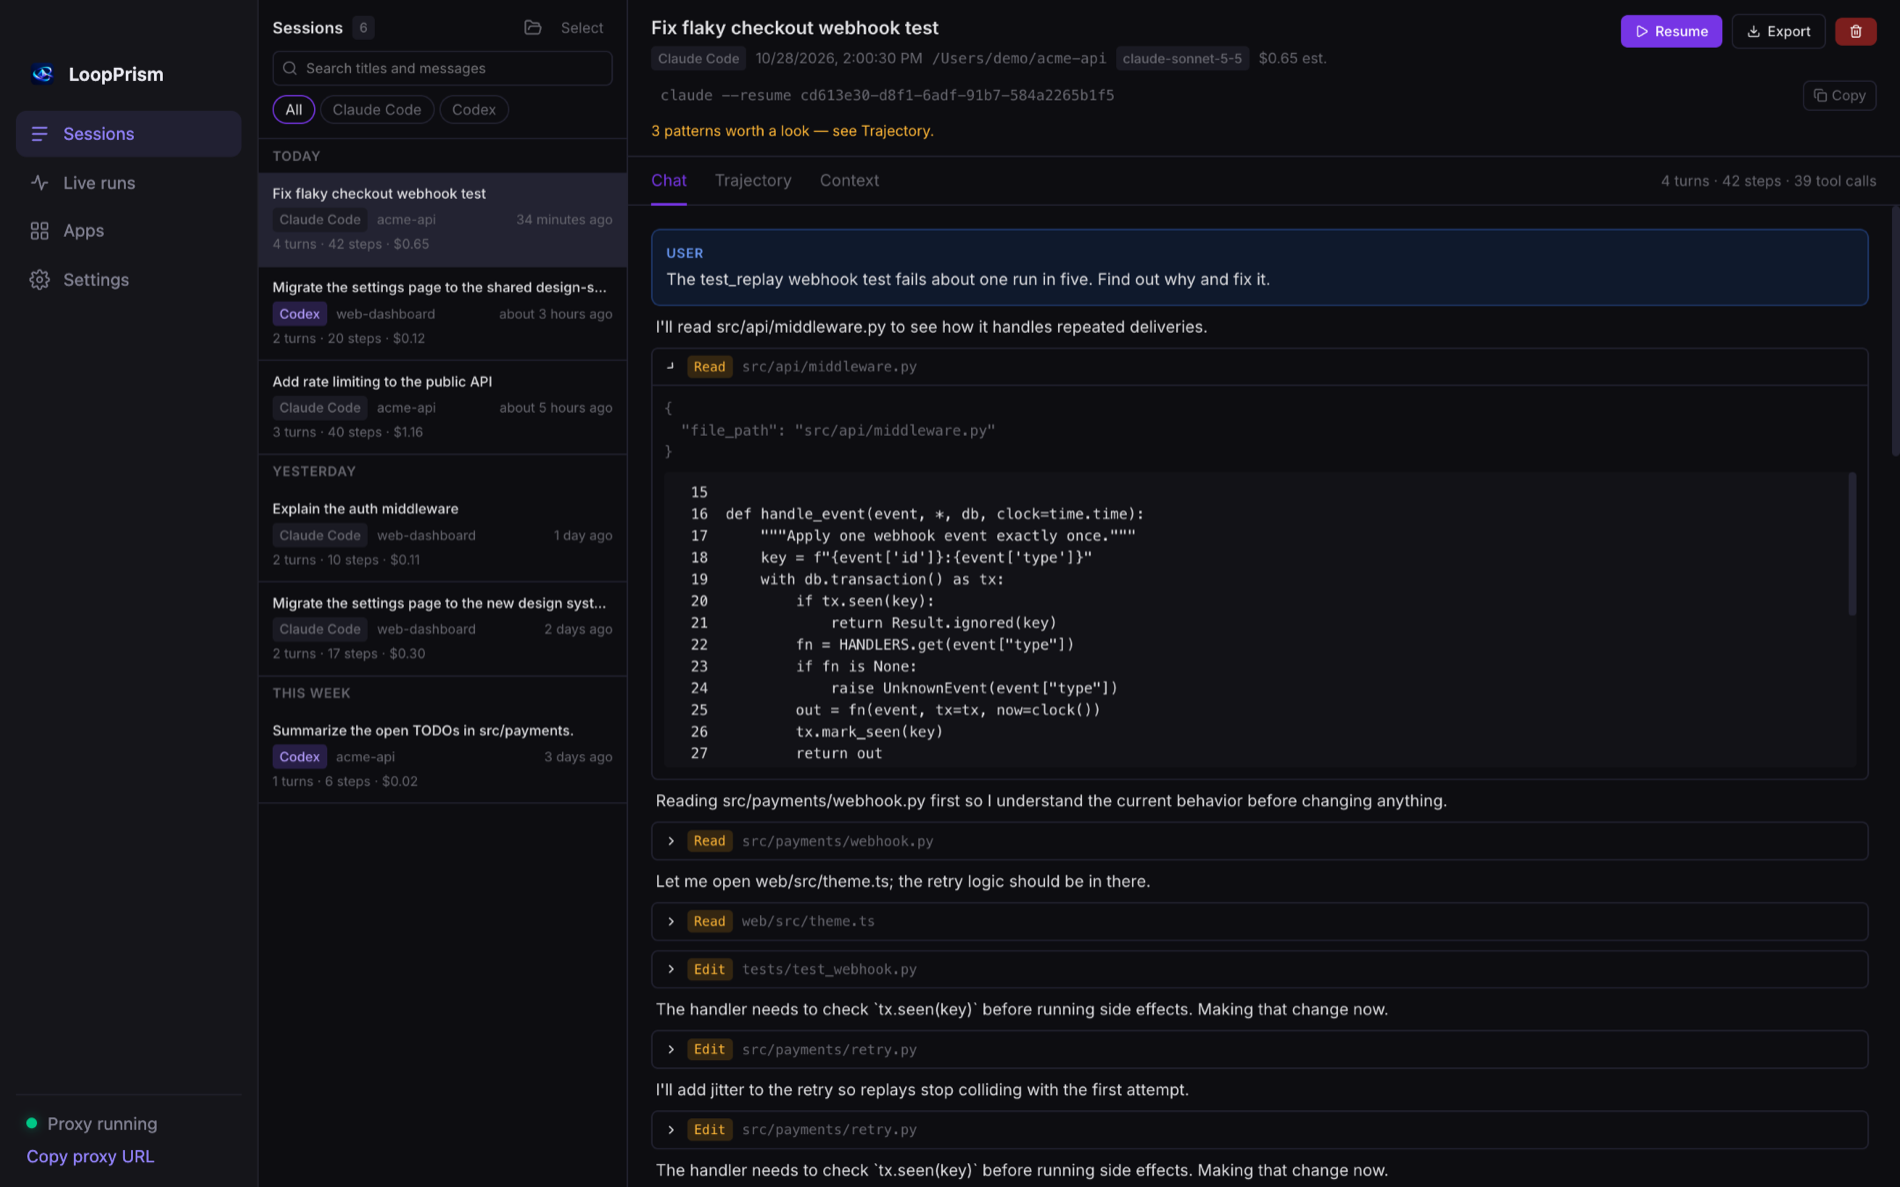
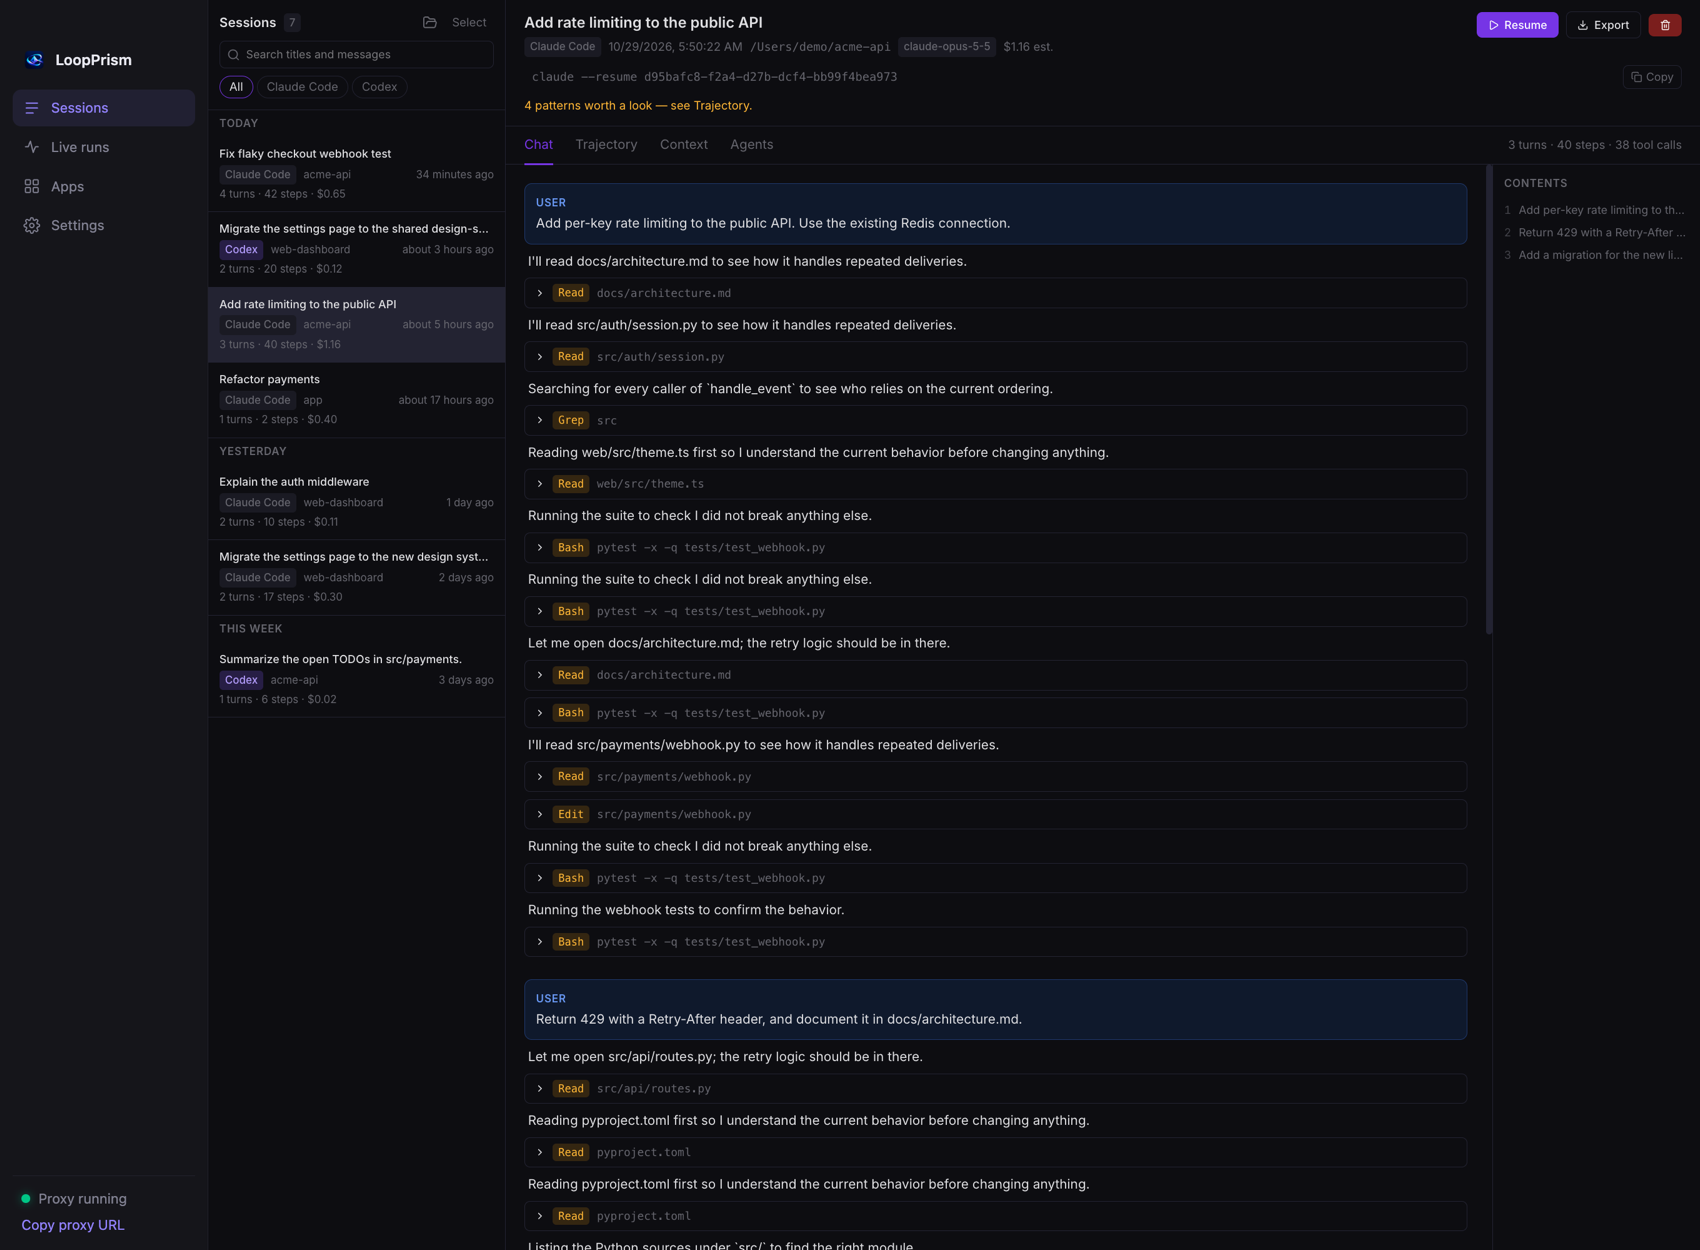
docs: README shows Chat, Trajectory, Context and Agents; drop closer look, how it works and more; add star history

diff --git a/tests/support_agents.py b/tests/support_agents.py
@@ -19,7 +19,13 @@ MODEL = "claude-sonnet-5-5"
 PROJECT = "-work-app"
 
 
+# LP_DEMO_SCALE multiplies every token count, so a demo (README screenshots) shows realistic
+# costs instead of "<$0.01". Tests leave it at 1.
+SCALE = int(os.environ.get("LP_DEMO_SCALE", "1"))
+
+
 def u(inp=100, out=40, read=2000):
+    inp, out, read = inp * SCALE, out * SCALE, read * SCALE
     return {"input_tokens": inp, "output_tokens": out, "cache_read_input_tokens": read,
             "cache_creation": {"ephemeral_5m_input_tokens": 0, "ephemeral_1h_input_tokens": 0}}
 

diff --git a/README.md b/README.md
@@ -18,18 +18,31 @@
 <p align="center">
   <a href="https://github.com/AMark-CS/LoopPrism/releases/latest"><b>Download</b></a> ·
   <a href="#features">Features</a> ·
-  <a href="#get-started">Get started</a> ·
-  <a href="#how-it-works">How it works</a> ·
-  <a href="#more">Docs</a>
+  <a href="#get-started">Get started</a>
 </p>
 
 <br>
 
-<p align="center">
-  <img src="docs/assets/inspector-context.png" alt="LoopPrism Context view: token breakdown, timing, cost distribution and context trend" width="920">
-</p>
+<table>
+  <tr>
+    <td width="50%"><img src="docs/assets/inspector-chat.png" alt="Chat view: the conversation with expandable tool calls"></td>
+    <td width="50%"><img src="docs/assets/inspector-trajectory.png" alt="Trajectory view: timeline, flagged patterns and every step"></td>
+  </tr>
+  <tr>
+    <td align="center"><sub><b>Chat</b> — the conversation, with every tool call expandable</sub></td>
+    <td align="center"><sub><b>Trajectory</b> — every step on a timeline, loops and failure streaks flagged</sub></td>
+  </tr>
+  <tr>
+    <td width="50%"><img src="docs/assets/inspector-context.png" alt="Context view: token breakdown, timing and cost distribution"></td>
+    <td width="50%"><img src="docs/assets/inspector-agents.png" alt="Agents view: the main agent and its subagents as a branching flow"></td>
+  </tr>
+  <tr>
+    <td align="center"><sub><b>Context</b> — what filled the context, where the time and the money went</sub></td>
+    <td align="center"><sub><b>Agents</b> — subagents branching off and merging back, with what was passed between them</sub></td>
+  </tr>
+</table>
 
-<p align="center"><sub>Made-up demo sessions, generated by <a href="scripts/make_demo_sessions.py"><code>scripts/make_demo_sessions.py</code></a>.</sub></p>
+<p align="center"><sub>Made-up demo sessions, generated by <a href="scripts/make_demo_sessions.py"><code>scripts/make_demo_sessions.py</code></a> and <a href="tests/support_agents.py"><code>tests/support_agents.py</code></a>.</sub></p>
 
 <br>
 
@@ -116,121 +129,16 @@ Claude Code can also use the plugin directly (`/plugin marketplace add AMark-CS/
 `/plugin install loopprism@loopprism`). In Codex, run `/hooks` once to trust the hooks. Privacy
 options and uninstall: [npm/README.md](npm/README.md).
 
-## A closer look
-
-<table>
-  <tr>
-    <td width="50%"><img src="docs/assets/inspector-trajectory.png" alt="Trajectory view: timeline lanes, flagged patterns and every step"></td>
-    <td width="50%"><img src="docs/assets/inspector-chat.png" alt="Chat view: the conversation with expandable tool calls"></td>
-  </tr>
-  <tr>
-    <td align="center"><sub><b>Trajectory</b> — every step, with loops and failure streaks flagged</sub></td>
-    <td align="center"><sub><b>Chat</b> — the conversation, tool calls expandable</sub></td>
-  </tr>
-</table>
-
-## How it works
-
-LoopPrism reads the session files Claude Code (`~/.claude/projects`) and Codex (`~/.codex/sessions`)
-already write, indexes them locally, and works out the rest.
-
-**How exact is the context breakdown?**
-
-| Source | What's recorded | Result |
-|---|---|---|
-| Claude Code 2.1.308+ | the exact request of every step (system prompt, tool schemas, messages) | **Exact request**: real content, scaled to the token counts the model reported |
-| Codex | system prompt, tool schemas and conversation | **Exact request**, within a few percent |
-| Older Claude Code | conversation only | **Estimated**: system prompt and tool schemas inferred as whatever the conversation doesn't explain |
-
-**Cost** is each step's token usage (including cache reads and writes) priced at Anthropic's and
-OpenAI's published API prices (`src/loopprism/cost/pricing.py`). It is what the work would cost on
-the API; Claude Pro/Max and ChatGPT plans bill differently, and models without a published price
-show no cost rather than a guess. Override any price in `~/.loopprism/pricing.json`:
-
-```json
-{"claude-opus-5-5": {"input": 4, "output": 20, "cache_read": 0.2, "cache_write": 5, "cache_write_1h": 8}}
-```
-
-**Privacy.** Session content (prompts, code, tool output) never leaves your machine. The session
-endpoints only answer your own dashboard (loopback host, same origin), so other websites can't
-read or delete sessions. Deleting moves a file to the Trash and only works inside Claude Code's and
-Codex's own session folders.
-
-## More
-
-<details>
-<summary><b>MCP proxy</b> — record MCP tool calls from any HTTP MCP client</summary>
-
-<br>
-
-```bash
-lprism proxy --port 4317
-```
-
-```jsonc
-// e.g. Claude Desktop config
-{
-  "mcpServers": {
-    "github": { "url": "http://localhost:4317/github?backend=https://api.github.com/mcp" },
-    "filesystem": { "url": "http://localhost:4317/fs?backend=http://localhost:3001" }
-  }
-}
-```
-
-Every call then appears under **Live runs** with a waterfall of timing and latency, plus per-server
-and per-tool stats. The desktop app's **Apps** page builds these URLs for you.
-
-</details>
-
-<details>
-<summary><b>Commands</b></summary>
-
-<br>
-
-```bash
-lprism proxy                                  # proxy + dashboard
-lprism proxy --port 4317 --dashboard-port 8080
-lprism proxy --no-dashboard                   # proxy only
-lprism dashboard --db ~/.loopprism/remote.db  # dashboard for another database
-lprism analyze <trace-id>                     # analyze one trace
-lprism proxy --verbose                        # debug logging
-```
-
-</details>
-
-<details>
-<summary><b>Development</b></summary>
-
-<br>
-
-```bash
-git clone git@github.com:AMark-CS/LoopPrism.git && cd LoopPrism
-pip install -e ".[dev]" && pytest
-
-cd dashboard && npm install && npm run dev        # dashboard dev server
-
-# try the inspector on made-up sessions (not yours)
-python scripts/make_demo_sessions.py /tmp/lp-demo
-CLAUDE_CONFIG_DIR=/tmp/lp-demo/.claude CODEX_HOME=/tmp/lp-demo/.codex lprism proxy
-```
-
-Build the desktop app (macOS): [desktop/README.md](desktop/README.md).
-
-</details>
-
-<details>
-<summary><b>Renamed from toolglass</b></summary>
-
-<br>
-
-The Python package is `loopprism` and the CLI is `lprism`; the former `toolglass` and `loopprism`
-commands no longer exist. `TOOLGLASS_*` environment variables and `X-Toolglass-*` headers still work;
-new variables use `LOOPPRISM_*` and take precedence. Existing `~/.toolglass/traces.db` and
-`config.toml` are used when their new equivalents are absent; nothing is moved or deleted.
-There is no PyPI release yet; install from GitHub.
-
-</details>
-
 ## License
 
 [MIT](./LICENSE)
+
+## Star History
+
+<a href="https://star-history.com/#AMark-CS/LoopPrism&Date">
+  <picture>
+    <source media="(prefers-color-scheme: dark)" srcset="https://api.star-history.com/svg?repos=AMark-CS/LoopPrism&type=Date&theme=dark" />
+    <source media="(prefers-color-scheme: light)" srcset="https://api.star-history.com/svg?repos=AMark-CS/LoopPrism&type=Date" />
+    <img alt="Star History Chart" src="https://api.star-history.com/svg?repos=AMark-CS/LoopPrism&type=Date" width="100%" />
+  </picture>
+</a>
